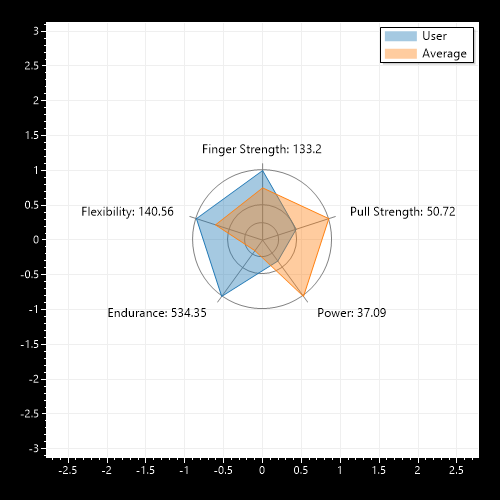
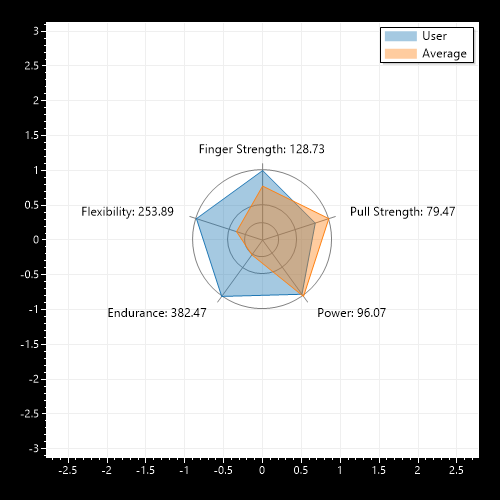
Fixed bugs on analysis page, added seeded users for demo

diff --git a/SourceCode/PeakPals/PeakPals_Project/wwwroot/js/report.js b/SourceCode/PeakPals/PeakPals_Project/wwwroot/js/report.js
@@ -272,10 +272,20 @@ async function getTestAverage(testId, averageDiv, recentDiv, filterData) {
       var recentText = document.createElement("p");
 
       //strength test
-      if (testId === 0 || testId === 1 || testId === 2) {
+      if (testId === 0 || testId === 1) {
         var resultText = "Recent Test: " + '<span class="orange-text">' + recentResult + '</span>' + " lbs";
         var weightText = "Bodyweight: " + '<span class="orange-text">' + recentWeight + '</span>' + " lbs";
-        var ratioText = '<span class="orange-text">' + ((recentResult / recentWeight).toFixed(2) * 100 + 100) + '%</span>' + " of total body weight";
+        var ratioText = '<span class="orange-text">' + ((recentResult / recentWeight) * 100 + 100).toFixed(2) + '%</span>' + " of total body weight";
+
+        recentText.innerHTML = resultText + "<br>" + weightText + "<br>" + ratioText;
+
+        recentDiv.appendChild(recentText);
+      }
+      //hammercurl test
+      else if (testId === 2) {
+        var resultText = "Recent Test: " + '<span class="orange-text">' + recentResult + '</span>' + " lbs";
+        var weightText = "Bodyweight: " + '<span class="orange-text">' + recentWeight + '</span>' + " lbs";
+        var ratioText = '<span class="orange-text">' + ((recentResult / recentWeight) * 100).toFixed(2) + '%</span>' + " of total body weight";
 
         recentText.innerHTML = resultText + "<br>" + weightText + "<br>" + ratioText;
 
@@ -337,9 +347,9 @@ async function getTestAverage(testId, averageDiv, recentDiv, filterData) {
     //console.log("average: " + JSON.stringify(averageData));
     function createPercentDifferenceText(percentDifference) {
       var percentDifferenceText = document.createElement("p");
-      if (percentDifference > 0) {
-        percentDifferenceText.innerHTML = "Your score is <span id='higher-score'>" + percentDifference + "%</span> higher than the average";
-      } else if (percentDifference < 0) {
+      if (percentDifference < 0) {
+        percentDifferenceText.innerHTML = "Your score is <span id='higher-score'>" + Math.abs(percentDifference) + "%</span> higher than the average";
+      } else if (percentDifference > 0) {
         percentDifferenceText.innerHTML = "Your score is <span id='lower-score'>" + Math.abs(percentDifference) + "%</span> lower than the average";
       } else if (percentDifference == 0) {
         var percentDifferenceText = document.createElement("p");
@@ -369,14 +379,35 @@ async function getTestAverage(testId, averageDiv, recentDiv, filterData) {
       var averageValue = (testId === 0 || testId === 1 || testId === 2) ? (average * 100 + 100).toFixed(2) : average.toFixed(2);
       if (testId === 7) {
         averageText.innerHTML = "The overall average for this test is: " + '<span class="orange-text">' + testDescription + '</span>';
-      } else {
+      }
+      else if (testId === 2) {
+        averageText.innerHTML = "The overall average for this test is: " + '<span class="orange-text">' + (averageValue - 100).toFixed(2) + '</span>' + testDescription;
+      }
+      else {
         averageText.innerHTML = "The overall average for this test is: " + '<span class="orange-text">' + averageValue + '</span>' + testDescription;
       }
 
       averageDiv.appendChild(averageText);
 
-      if (testId !== 7) {
-        var percentDifference = ((recentResult / (testId === 0 || testId === 1 || testId === 2 ? recentWeight : average)) * 100 - 100).toFixed(0);
+      if (testId === 0 || testId === 1 || testId === 2) {
+        var percentDifference = ((average -(recentResult / (recentWeight))) * 100).toFixed(1);
+        var percentDifferenceText = createPercentDifferenceText(percentDifference);
+        averageDiv.appendChild(percentDifferenceText);
+      }
+      else if (testId === 3 || testId === 5) {
+        var percentDifference = (100-((recentResult / average) * 100)).toFixed(0);
+        var percentDifferenceText = createPercentDifferenceText(percentDifference);
+        averageDiv.appendChild(percentDifferenceText);
+      }
+      else if (testId === 4) {
+        recentResult += Math.abs(average) + 10;
+        average = 10;
+        var percentDifference = (100-((recentResult / average) * 100)).toFixed(0);
+        var percentDifferenceText = createPercentDifferenceText(percentDifference);
+        averageDiv.appendChild(percentDifferenceText);
+      }
+      else if (testId !== 7) {
+        var percentDifference = -(100-((recentResult / average) * 100)).toFixed(0);
         var percentDifferenceText = createPercentDifferenceText(percentDifference);
         averageDiv.appendChild(percentDifferenceText);
       }

diff --git a/SourceCode/PeakPals/PeakPals_Project/Services/FitnessDataEntryService.cs b/SourceCode/PeakPals/PeakPals_Project/Services/FitnessDataEntryService.cs
@@ -177,7 +177,7 @@ public class FitnessDataEntryService : IFitnessDataEntryService
         }
 
         //generate a 5 point radar chart labeled with the stats above where the user's stats are compared to the average stats where the average stats are the 100% mark
-        var plt = new ScottPlot.Plot(500, 500);
+        var plt = new ScottPlot.Plot(700, 700);
         double[,] values = { { userFingerStrengthStat, userPullStrengthStat, userPowerStat, userEnduranceStat, userFlexibilityStat },
                      { 100, 100, 100, 100, 100 } };
         string[] labels = { "Finger Strength: " + Math.Round(userFingerStrengthStat, 2), "Pull Strength: " + Math.Round(userPullStrengthStat, 2), "Power: " + Math.Round(userPowerStat, 2), "Endurance: " + Math.Round(userEnduranceStat, 2), "Flexibility: " + Math.Round(userFlexibilityStat, 2) };

diff --git a/SourceCode/PeakPals/PeakPals_Project/Program.cs b/SourceCode/PeakPals/PeakPals_Project/Program.cs
@@ -50,7 +50,7 @@ public class Program
 
         builder.Services.AddDatabaseDeveloperPageExceptionFilter();
 
-        builder.Services.AddDefaultIdentity<ApplicationUser>(options => options.SignIn.RequireConfirmedAccount = true)
+        builder.Services.AddDefaultIdentity<ApplicationUser>(options => options.SignIn.RequireConfirmedAccount = false)
             .AddRoles<IdentityRole>()
             .AddEntityFrameworkStores<ApplicationDbContext>();
         builder.Services.AddControllersWithViews();
